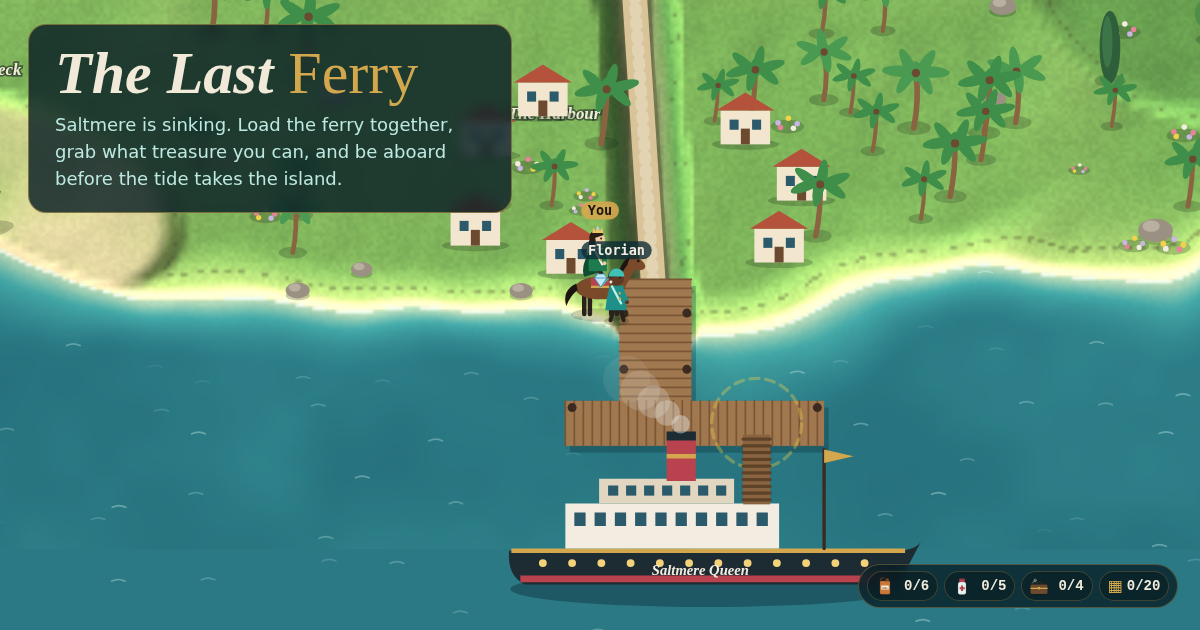
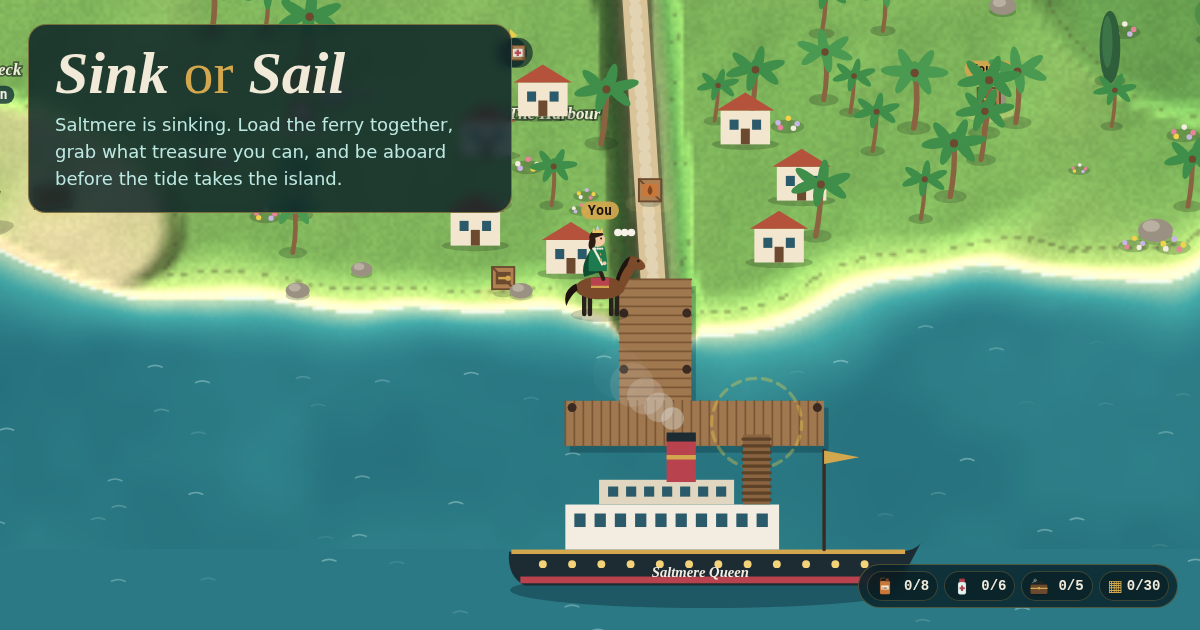
Rename the game to Sink or Sail

diff --git a/client/index.html b/client/index.html
@@ -5,14 +5,14 @@
     <meta name="viewport" content="width=device-width, initial-scale=1, viewport-fit=cover" />
     <meta name="theme-color" content="#0b2a33" />
     <meta name="description" content="Saltmere is sinking. Fill the last ferry with fuel, medicine and tools and sail before the tide takes the island. A live multiplayer game for 2 to 8 players: join with a room code, no sign-up." />
-    <meta property="og:title" content="The Last Ferry" />
+    <meta property="og:title" content="Sink or Sail" />
     <meta property="og:description" content="A jewel-like island is sinking. Load the last ferry and sail together. 2 to 8 players, about 20 minutes, no sign-up." />
     <meta property="og:image" content="/cover.png" />
     <link rel="icon" href="/favicon.svg" type="image/svg+xml" />
     <link rel="preconnect" href="https://fonts.googleapis.com" />
     <link rel="preconnect" href="https://fonts.gstatic.com" crossorigin />
     <link rel="stylesheet" href="https://fonts.googleapis.com/css2?family=Bodoni+Moda:ital,opsz,wght@0,6..96,400..800;1,6..96,400..700&family=Jost:wght@300;400;500;600&family=Courier+Prime:wght@400;700&display=swap" />
-    <title>The Last Ferry</title>
+    <title>Sink or Sail</title>
   </head>
   <body>
     <div id="root"></div>

diff --git a/client/src/Home.tsx b/client/src/Home.tsx
@@ -41,7 +41,7 @@ export function Home() {
       <div className="home-inner">
         <header className="home-title">
           <span className="eyebrow">1 to 8 players · no sign-up</span>
-          <h1>The Last <em>Ferry</em></h1>
+          <h1>Sink <em>or</em> Sail</h1>
           <p className="ornament" aria-hidden="true"><span />✦<span /></p>
           <p className="lede">The tide is rising over Saltmere. Race your friends across the island on foot and on horseback, haul fuel, medicine and tools to the old ferry, and grab diamonds before the sea takes them. Be on the pier when she sails.</p>
         </header>

diff --git a/shared/game.ts b/shared/game.ts
@@ -1,4 +1,4 @@
-// The Last Ferry: rules engine for the open-world island. Pure game logic shared by the
+// Sink or Sail: rules engine for the open-world island. Pure game logic shared by the
 // server (authoritative) and the client (types and helpers). The server owns the only
 // real GameState, runs tick() ten times a second, and sends each player viewFor().
 

diff --git a/client/src/styles.css b/client/src/styles.css
@@ -1,4 +1,4 @@
-/* The Last Ferry: a night-lagoon grand-hotel look. Brass instruments, pearl ivory, velvet accents. */
+/* Sink or Sail: a night-lagoon grand-hotel look. Brass instruments, pearl ivory, velvet accents. */
 :root {
   --lagoon: #0b2a33;
   --lagoon-2: #103a45;

diff --git a/server/index.ts b/server/index.ts
@@ -86,5 +86,5 @@ io.on("connection", (socket) => {
 });
 
 http.listen(PORT, () => {
-  console.log(`The Last Ferry is boarding on http://localhost:${PORT}`);
+  console.log(`Sink or Sail is boarding on http://localhost:${PORT}`);
 });

diff --git a/README.md b/README.md
@@ -1,10 +1,10 @@
-# The Last Ferry
+# Sink or Sail
 
 Saltmere is sinking. One grand old ferry waits at the harbour. Fill its hold with fuel, medicine and tools, and sail before the tide takes the island. Carry off whatever treasure you can fit.
 
 A live multiplayer browser game for 1 to 8 players. One person starts a room, everyone else joins with the 4-letter code or the link, from any phone or laptop. No accounts, no installs. Bots fill empty seats. A game lasts five tides, about 15 minutes (or about 8 in quick mode).
 
-![The Last Ferry](client/public/cover.png)
+![Sink or Sail](client/public/cover.png)
 
 ## How to play
 
